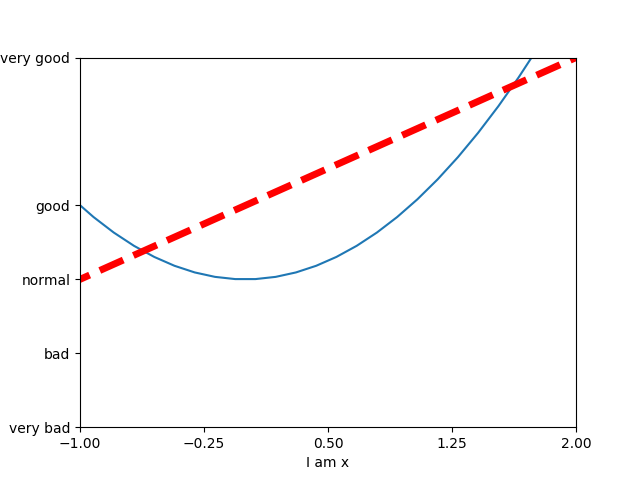
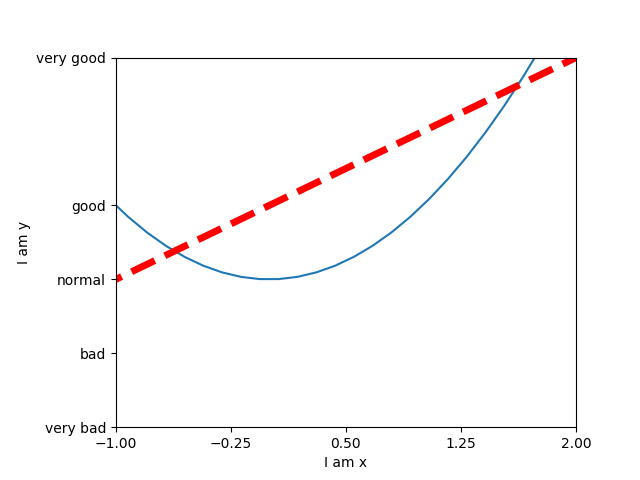
Site updated: 2017-12-24 13:26:34

diff --git a/2017/12/24/matplotlib学习3之axis/index.html b/2017/12/24/matplotlib学习3之axis/index.html
@@ -79,19 +79,19 @@
 
 
 
-<meta name="description" content="代码：12345678910111213141516171819202122232425262728293031323334# -*- coding: utf-8 -*-import matplotlib.pyplot as pltimport numpy as np# 产生数据x = np.linspace(-3,3,50)#绘制直线y1 = x + 1#绘制曲线y2 = x**2plt.fig">
+<meta name="description" content="代码：123456789101112131415161718192021222324252627282930313233343536# -*- coding: utf-8 -*-import matplotlib.pyplot as pltimport numpy as np# 产生数据x = np.linspace(-3,3,50)#绘制直线y1 = x + 1#绘制曲线y2 = x**2plt">
 <meta name="keywords" content="matplotlib">
 <meta property="og:type" content="article">
 <meta property="og:title" content="matplotlib学习3之axis">
 <meta property="og:url" content="http://yoursite.com/2017/12/24/matplotlib学习3之axis/index.html">
 <meta property="og:site_name" content="沧海一粟">
-<meta property="og:description" content="代码：12345678910111213141516171819202122232425262728293031323334# -*- coding: utf-8 -*-import matplotlib.pyplot as pltimport numpy as np# 产生数据x = np.linspace(-3,3,50)#绘制直线y1 = x + 1#绘制曲线y2 = x**2plt.fig">
+<meta property="og:description" content="代码：123456789101112131415161718192021222324252627282930313233343536# -*- coding: utf-8 -*-import matplotlib.pyplot as pltimport numpy as np# 产生数据x = np.linspace(-3,3,50)#绘制直线y1 = x + 1#绘制曲线y2 = x**2plt">
 <meta property="og:locale" content="zh-Hans">
 <meta property="og:image" content="https://raw.githubusercontent.com/xuleilx/xuleilx.github.io/master/images/axis_1.png">
-<meta property="og:updated_time" content="2017-12-24T05:19:46.820Z">
+<meta property="og:updated_time" content="2017-12-24T05:26:18.713Z">
 <meta name="twitter:card" content="summary">
 <meta name="twitter:title" content="matplotlib学习3之axis">
-<meta name="twitter:description" content="代码：12345678910111213141516171819202122232425262728293031323334# -*- coding: utf-8 -*-import matplotlib.pyplot as pltimport numpy as np# 产生数据x = np.linspace(-3,3,50)#绘制直线y1 = x + 1#绘制曲线y2 = x**2plt.fig">
+<meta name="twitter:description" content="代码：123456789101112131415161718192021222324252627282930313233343536# -*- coding: utf-8 -*-import matplotlib.pyplot as pltimport numpy as np# 产生数据x = np.linspace(-3,3,50)#绘制直线y1 = x + 1#绘制曲线y2 = x**2plt">
 <meta name="twitter:image" content="https://raw.githubusercontent.com/xuleilx/xuleilx.github.io/master/images/axis_1.png">
 
 
@@ -406,7 +406,7 @@
       
 
       
-        <p>代码：<br><figure class="highlight python"><table><tr><td class="gutter"><pre><span class="line">1</span><br><span class="line">2</span><br><span class="line">3</span><br><span class="line">4</span><br><span class="line">5</span><br><span class="line">6</span><br><span class="line">7</span><br><span class="line">8</span><br><span class="line">9</span><br><span class="line">10</span><br><span class="line">11</span><br><span class="line">12</span><br><span class="line">13</span><br><span class="line">14</span><br><span class="line">15</span><br><span class="line">16</span><br><span class="line">17</span><br><span class="line">18</span><br><span class="line">19</span><br><span class="line">20</span><br><span class="line">21</span><br><span class="line">22</span><br><span class="line">23</span><br><span class="line">24</span><br><span class="line">25</span><br><span class="line">26</span><br><span class="line">27</span><br><span class="line">28</span><br><span class="line">29</span><br><span class="line">30</span><br><span class="line">31</span><br><span class="line">32</span><br><span class="line">33</span><br><span class="line">34</span><br></pre></td><td class="code"><pre><span class="line"><span class="comment"># -*- coding: utf-8 -*-</span></span><br><span class="line"><span class="keyword">import</span> matplotlib.pyplot <span class="keyword">as</span> plt</span><br><span class="line"><span class="keyword">import</span> numpy <span class="keyword">as</span> np</span><br><span class="line"></span><br><span class="line"><span class="comment"># 产生数据</span></span><br><span class="line">x = np.linspace(<span class="number">-3</span>,<span class="number">3</span>,<span class="number">50</span>)</span><br><span class="line"></span><br><span class="line"><span class="comment">#绘制直线</span></span><br><span class="line">y1 = x + <span class="number">1</span></span><br><span class="line"></span><br><span class="line"><span class="comment">#绘制曲线</span></span><br><span class="line">y2 = x**<span class="number">2</span></span><br><span class="line"></span><br><span class="line">plt.figure()</span><br><span class="line"></span><br><span class="line"><span class="comment"># 单纯直线</span></span><br><span class="line">plt.plot(x,y2)</span><br><span class="line"><span class="comment"># 指定线的颜色, 宽度和类型</span></span><br><span class="line">plt.plot(x,y1,color=<span class="string">'red'</span>,linewidth=<span class="number">5.0</span>,linestyle=<span class="string">'--'</span>)</span><br><span class="line"></span><br><span class="line"><span class="comment"># 设置坐标轴</span></span><br><span class="line">plt.xlim(<span class="number">-1</span>,<span class="number">2</span>)</span><br><span class="line">plt.ylim(<span class="number">-2</span>,<span class="number">3</span>)</span><br><span class="line"></span><br><span class="line">plt.xlabel(<span class="string">'I am x'</span>)</span><br><span class="line">plt.ylabel(<span class="string">'I am y'</span>)</span><br><span class="line"></span><br><span class="line">new_ticks= np.linspace(<span class="number">-1</span>,<span class="number">2</span>,<span class="number">5</span>)</span><br><span class="line">plt.xticks(new_ticks)</span><br><span class="line">plt.yticks([<span class="number">-2</span>,<span class="number">-1</span>,<span class="number">0</span>,<span class="number">1</span>,<span class="number">3</span>],</span><br><span class="line">           [<span class="string">'very bad'</span>,<span class="string">'bad'</span>,<span class="string">'normal'</span>,<span class="string">'good'</span>,<span class="string">'very good'</span>])</span><br><span class="line"></span><br><span class="line"><span class="comment">#显示</span></span><br><span class="line">plt.show()</span><br></pre></td></tr></table></figure></p>
+        <p>代码：<br><figure class="highlight python"><table><tr><td class="gutter"><pre><span class="line">1</span><br><span class="line">2</span><br><span class="line">3</span><br><span class="line">4</span><br><span class="line">5</span><br><span class="line">6</span><br><span class="line">7</span><br><span class="line">8</span><br><span class="line">9</span><br><span class="line">10</span><br><span class="line">11</span><br><span class="line">12</span><br><span class="line">13</span><br><span class="line">14</span><br><span class="line">15</span><br><span class="line">16</span><br><span class="line">17</span><br><span class="line">18</span><br><span class="line">19</span><br><span class="line">20</span><br><span class="line">21</span><br><span class="line">22</span><br><span class="line">23</span><br><span class="line">24</span><br><span class="line">25</span><br><span class="line">26</span><br><span class="line">27</span><br><span class="line">28</span><br><span class="line">29</span><br><span class="line">30</span><br><span class="line">31</span><br><span class="line">32</span><br><span class="line">33</span><br><span class="line">34</span><br><span class="line">35</span><br><span class="line">36</span><br></pre></td><td class="code"><pre><span class="line"><span class="comment"># -*- coding: utf-8 -*-</span></span><br><span class="line"><span class="keyword">import</span> matplotlib.pyplot <span class="keyword">as</span> plt</span><br><span class="line"><span class="keyword">import</span> numpy <span class="keyword">as</span> np</span><br><span class="line"></span><br><span class="line"><span class="comment"># 产生数据</span></span><br><span class="line">x = np.linspace(<span class="number">-3</span>,<span class="number">3</span>,<span class="number">50</span>)</span><br><span class="line"></span><br><span class="line"><span class="comment">#绘制直线</span></span><br><span class="line">y1 = x + <span class="number">1</span></span><br><span class="line"></span><br><span class="line"><span class="comment">#绘制曲线</span></span><br><span class="line">y2 = x**<span class="number">2</span></span><br><span class="line"></span><br><span class="line">plt.figure()</span><br><span class="line"></span><br><span class="line"><span class="comment"># 单纯直线</span></span><br><span class="line">plt.plot(x,y2)</span><br><span class="line"><span class="comment"># 指定线的颜色, 宽度和类型</span></span><br><span class="line">plt.plot(x,y1,color=<span class="string">'red'</span>,linewidth=<span class="number">5.0</span>,linestyle=<span class="string">'--'</span>)</span><br><span class="line"></span><br><span class="line"><span class="comment"># 设置坐标轴</span></span><br><span class="line">plt.xlim(<span class="number">-1</span>,<span class="number">2</span>)</span><br><span class="line">plt.ylim(<span class="number">-2</span>,<span class="number">3</span>)</span><br><span class="line"></span><br><span class="line">plt.xlabel(<span class="string">'I am x'</span>)</span><br><span class="line">plt.ylabel(<span class="string">'I am y'</span>)</span><br><span class="line"></span><br><span class="line">new_ticks= np.linspace(<span class="number">-1</span>,<span class="number">2</span>,<span class="number">5</span>)</span><br><span class="line"><span class="comment"># 设置坐标的粒度</span></span><br><span class="line">plt.xticks(new_ticks)</span><br><span class="line"><span class="comment"># 用文字代替对应的数值</span></span><br><span class="line">plt.yticks([<span class="number">-2</span>,<span class="number">-1</span>,<span class="number">0</span>,<span class="number">1</span>,<span class="number">3</span>],</span><br><span class="line">           [<span class="string">'very bad'</span>,<span class="string">'bad'</span>,<span class="string">'normal'</span>,<span class="string">'good'</span>,<span class="string">'very good'</span>])</span><br><span class="line"></span><br><span class="line"><span class="comment">#显示</span></span><br><span class="line">plt.show()</span><br></pre></td></tr></table></figure></p>
 <p>输出结果：<br><img src="https://raw.githubusercontent.com/xuleilx/xuleilx.github.io/master/images/axis_1.png" alt="image"></p>
 
       

diff --git a/index.html b/index.html
@@ -405,7 +405,7 @@
       
         
           
-            <p>代码：<br><figure class="highlight python"><table><tr><td class="gutter"><pre><span class="line">1</span><br><span class="line">2</span><br><span class="line">3</span><br><span class="line">4</span><br><span class="line">5</span><br><span class="line">6</span><br><span class="line">7</span><br><span class="line">8</span><br><span class="line">9</span><br><span class="line">10</span><br><span class="line">11</span><br><span class="line">12</span><br><span class="line">13</span><br><span class="line">14</span><br><span class="line">15</span><br><span class="line">16</span><br><span class="line">17</span><br><span class="line">18</span><br><span class="line">19</span><br><span class="line">20</span><br><span class="line">21</span><br><span class="line">22</span><br><span class="line">23</span><br><span class="line">24</span><br><span class="line">25</span><br><span class="line">26</span><br><span class="line">27</span><br><span class="line">28</span><br><span class="line">29</span><br><span class="line">30</span><br><span class="line">31</span><br><span class="line">32</span><br><span class="line">33</span><br><span class="line">34</span><br></pre></td><td class="code"><pre><span class="line"><span class="comment"># -*- coding: utf-8 -*-</span></span><br><span class="line"><span class="keyword">import</span> matplotlib.pyplot <span class="keyword">as</span> plt</span><br><span class="line"><span class="keyword">import</span> numpy <span class="keyword">as</span> np</span><br><span class="line"></span><br><span class="line"><span class="comment"># 产生数据</span></span><br><span class="line">x = np.linspace(<span class="number">-3</span>,<span class="number">3</span>,<span class="number">50</span>)</span><br><span class="line"></span><br><span class="line"><span class="comment">#绘制直线</span></span><br><span class="line">y1 = x + <span class="number">1</span></span><br><span class="line"></span><br><span class="line"><span class="comment">#绘制曲线</span></span><br><span class="line">y2 = x**<span class="number">2</span></span><br><span class="line"></span><br><span class="line">plt.figure()</span><br><span class="line"></span><br><span class="line"><span class="comment"># 单纯直线</span></span><br><span class="line">plt.plot(x,y2)</span><br><span class="line"><span class="comment"># 指定线的颜色, 宽度和类型</span></span><br><span class="line">plt.plot(x,y1,color=<span class="string">'red'</span>,linewidth=<span class="number">5.0</span>,linestyle=<span class="string">'--'</span>)</span><br><span class="line"></span><br><span class="line"><span class="comment"># 设置坐标轴</span></span><br><span class="line">plt.xlim(<span class="number">-1</span>,<span class="number">2</span>)</span><br><span class="line">plt.ylim(<span class="number">-2</span>,<span class="number">3</span>)</span><br><span class="line"></span><br><span class="line">plt.xlabel(<span class="string">'I am x'</span>)</span><br><span class="line">plt.ylabel(<span class="string">'I am y'</span>)</span><br><span class="line"></span><br><span class="line">new_ticks= np.linspace(<span class="number">-1</span>,<span class="number">2</span>,<span class="number">5</span>)</span><br><span class="line">plt.xticks(new_ticks)</span><br><span class="line">plt.yticks([<span class="number">-2</span>,<span class="number">-1</span>,<span class="number">0</span>,<span class="number">1</span>,<span class="number">3</span>],</span><br><span class="line">           [<span class="string">'very bad'</span>,<span class="string">'bad'</span>,<span class="string">'normal'</span>,<span class="string">'good'</span>,<span class="string">'very good'</span>])</span><br><span class="line"></span><br><span class="line"><span class="comment">#显示</span></span><br><span class="line">plt.show()</span><br></pre></td></tr></table></figure></p>
+            <p>代码：<br><figure class="highlight python"><table><tr><td class="gutter"><pre><span class="line">1</span><br><span class="line">2</span><br><span class="line">3</span><br><span class="line">4</span><br><span class="line">5</span><br><span class="line">6</span><br><span class="line">7</span><br><span class="line">8</span><br><span class="line">9</span><br><span class="line">10</span><br><span class="line">11</span><br><span class="line">12</span><br><span class="line">13</span><br><span class="line">14</span><br><span class="line">15</span><br><span class="line">16</span><br><span class="line">17</span><br><span class="line">18</span><br><span class="line">19</span><br><span class="line">20</span><br><span class="line">21</span><br><span class="line">22</span><br><span class="line">23</span><br><span class="line">24</span><br><span class="line">25</span><br><span class="line">26</span><br><span class="line">27</span><br><span class="line">28</span><br><span class="line">29</span><br><span class="line">30</span><br><span class="line">31</span><br><span class="line">32</span><br><span class="line">33</span><br><span class="line">34</span><br><span class="line">35</span><br><span class="line">36</span><br></pre></td><td class="code"><pre><span class="line"><span class="comment"># -*- coding: utf-8 -*-</span></span><br><span class="line"><span class="keyword">import</span> matplotlib.pyplot <span class="keyword">as</span> plt</span><br><span class="line"><span class="keyword">import</span> numpy <span class="keyword">as</span> np</span><br><span class="line"></span><br><span class="line"><span class="comment"># 产生数据</span></span><br><span class="line">x = np.linspace(<span class="number">-3</span>,<span class="number">3</span>,<span class="number">50</span>)</span><br><span class="line"></span><br><span class="line"><span class="comment">#绘制直线</span></span><br><span class="line">y1 = x + <span class="number">1</span></span><br><span class="line"></span><br><span class="line"><span class="comment">#绘制曲线</span></span><br><span class="line">y2 = x**<span class="number">2</span></span><br><span class="line"></span><br><span class="line">plt.figure()</span><br><span class="line"></span><br><span class="line"><span class="comment"># 单纯直线</span></span><br><span class="line">plt.plot(x,y2)</span><br><span class="line"><span class="comment"># 指定线的颜色, 宽度和类型</span></span><br><span class="line">plt.plot(x,y1,color=<span class="string">'red'</span>,linewidth=<span class="number">5.0</span>,linestyle=<span class="string">'--'</span>)</span><br><span class="line"></span><br><span class="line"><span class="comment"># 设置坐标轴</span></span><br><span class="line">plt.xlim(<span class="number">-1</span>,<span class="number">2</span>)</span><br><span class="line">plt.ylim(<span class="number">-2</span>,<span class="number">3</span>)</span><br><span class="line"></span><br><span class="line">plt.xlabel(<span class="string">'I am x'</span>)</span><br><span class="line">plt.ylabel(<span class="string">'I am y'</span>)</span><br><span class="line"></span><br><span class="line">new_ticks= np.linspace(<span class="number">-1</span>,<span class="number">2</span>,<span class="number">5</span>)</span><br><span class="line"><span class="comment"># 设置坐标的粒度</span></span><br><span class="line">plt.xticks(new_ticks)</span><br><span class="line"><span class="comment"># 用文字代替对应的数值</span></span><br><span class="line">plt.yticks([<span class="number">-2</span>,<span class="number">-1</span>,<span class="number">0</span>,<span class="number">1</span>,<span class="number">3</span>],</span><br><span class="line">           [<span class="string">'very bad'</span>,<span class="string">'bad'</span>,<span class="string">'normal'</span>,<span class="string">'good'</span>,<span class="string">'very good'</span>])</span><br><span class="line"></span><br><span class="line"><span class="comment">#显示</span></span><br><span class="line">plt.show()</span><br></pre></td></tr></table></figure></p>
 <p>输出结果：<br><img src="https://raw.githubusercontent.com/xuleilx/xuleilx.github.io/master/images/axis_1.png" alt="image"></p>
 
           

diff --git a/css/main.css b/css/main.css
@@ -1828,7 +1828,7 @@ pre .javascript .function {
   width: 4px;
   height: 4px;
   border-radius: 50%;
-  background: #e7ffda;
+  background: #606674;
 }
 .links-of-blogroll {
   font-size: 13px;
